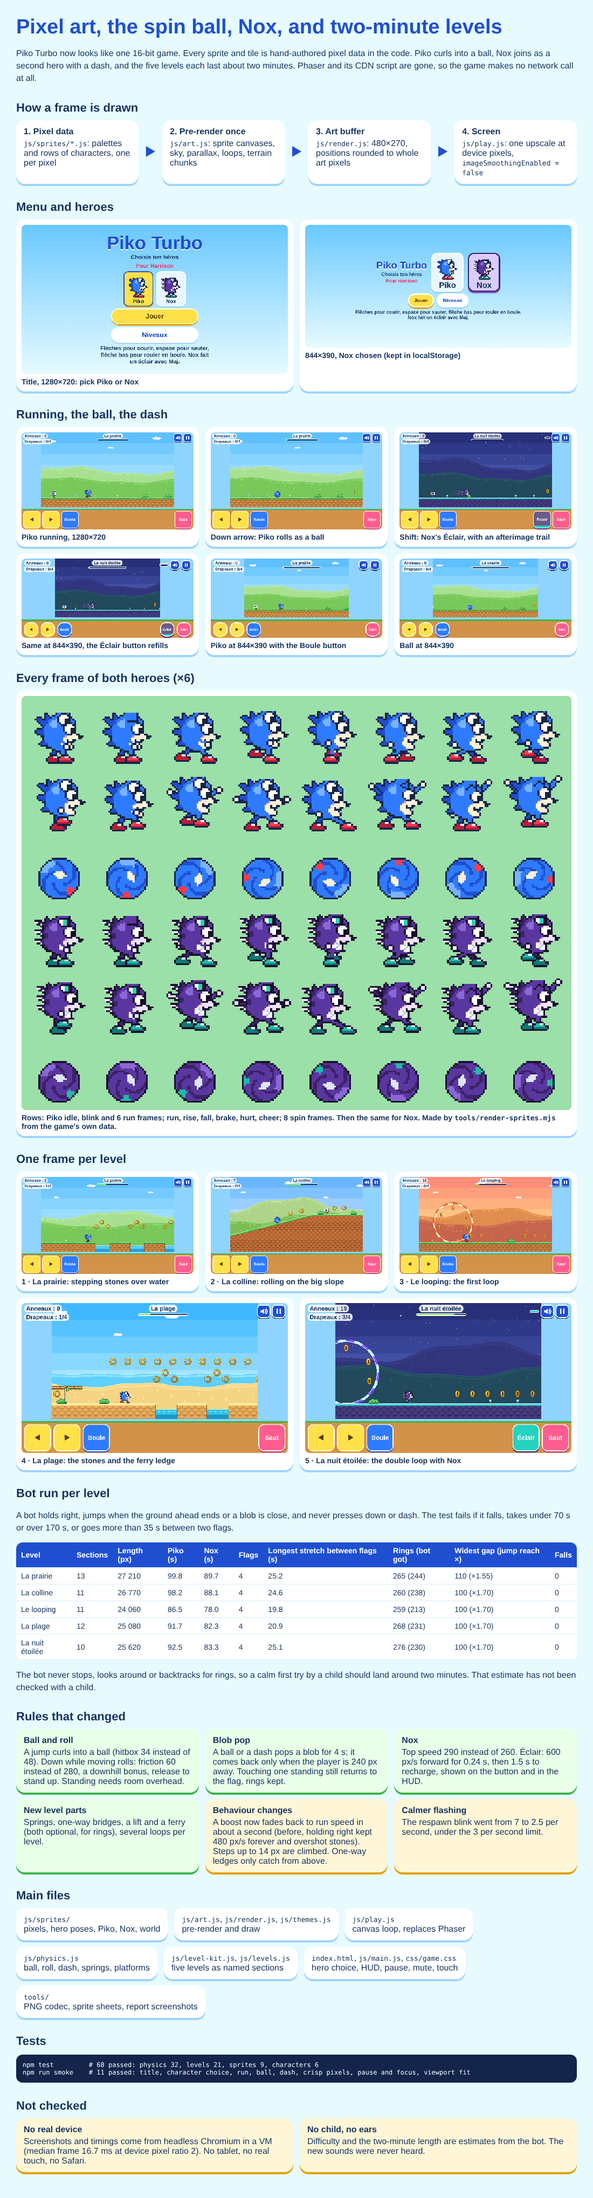
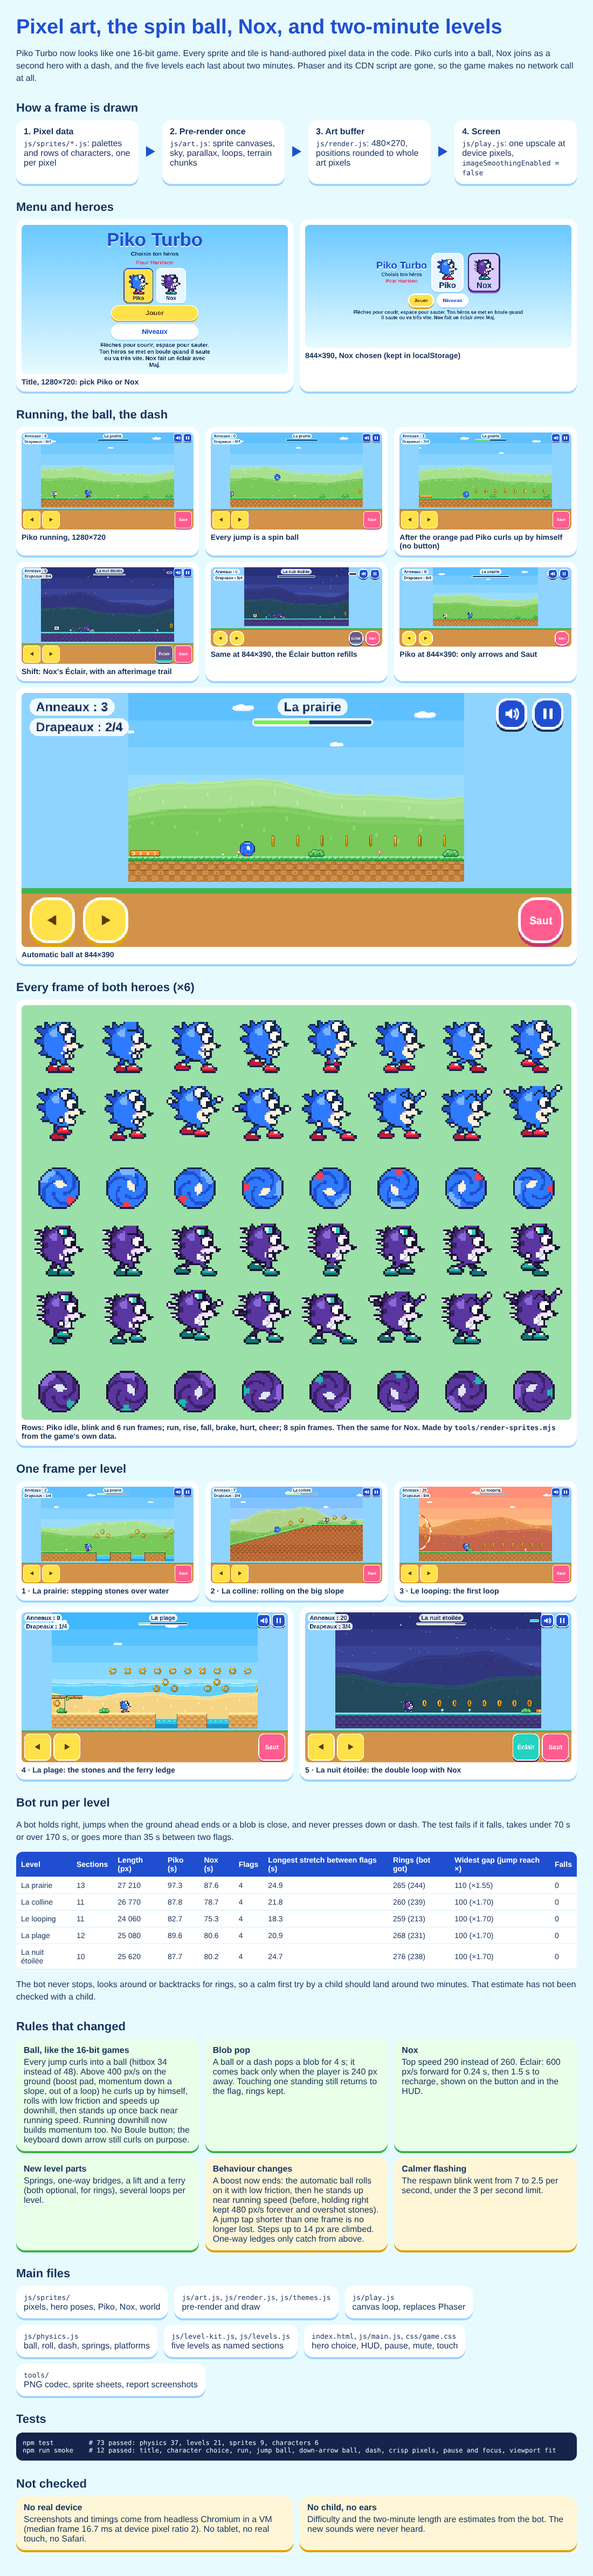
feat(ui): remove the Boule button and refresh the report
The ball now comes from jumps and speed, so the touch bar keeps only the
arrows, Saut and Nox's Éclair. The title help, README, smoke tests and
the visual report follow.

Claude-Session: https://claude.ai/code/session_01EXtVQZFuyFXmxBd66aRiqm

diff --git a/docs/pr-reports/feat-pixel-art-spin-nox-levels.html b/docs/pr-reports/feat-pixel-art-spin-nox-levels.html
@@ -61,11 +61,12 @@
     <h2>Running, the ball, the dash</h2>
     <div class="shots">
       <figure><img src="feat-pixel-art-spin-nox-levels/piko-run-wide.png" alt="Piko running in La prairie" /><figcaption>Piko running, 1280×720</figcaption></figure>
-      <figure><img src="feat-pixel-art-spin-nox-levels/piko-ball-wide.png" alt="Piko rolling as a ball" /><figcaption>Down arrow: Piko rolls as a ball</figcaption></figure>
+      <figure><img src="feat-pixel-art-spin-nox-levels/piko-jump-wide.png" alt="Piko jumping as a ball" /><figcaption>Every jump is a spin ball</figcaption></figure>
+      <figure><img src="feat-pixel-art-spin-nox-levels/piko-ball-wide.png" alt="Piko rolling after the boost pad" /><figcaption>After the orange pad Piko curls up by himself (no button)</figcaption></figure>
       <figure><img src="feat-pixel-art-spin-nox-levels/nox-dash-wide.png" alt="Nox dashing with an afterimage trail" /><figcaption>Shift: Nox's Éclair, with an afterimage trail</figcaption></figure>
       <figure><img src="feat-pixel-art-spin-nox-levels/nox-dash-phone.png" alt="Nox dashing at 844 by 390" /><figcaption>Same at 844×390, the Éclair button refills</figcaption></figure>
-      <figure><img src="feat-pixel-art-spin-nox-levels/piko-run-phone.png" alt="Piko running at 844 by 390" /><figcaption>Piko at 844×390 with the Boule button</figcaption></figure>
-      <figure><img src="feat-pixel-art-spin-nox-levels/piko-ball-phone.png" alt="Piko ball at 844 by 390" /><figcaption>Ball at 844×390</figcaption></figure>
+      <figure><img src="feat-pixel-art-spin-nox-levels/piko-run-phone.png" alt="Piko running at 844 by 390" /><figcaption>Piko at 844×390: only arrows and Saut</figcaption></figure>
+      <figure><img src="feat-pixel-art-spin-nox-levels/piko-ball-phone.png" alt="Piko ball at 844 by 390" /><figcaption>Automatic ball at 844×390</figcaption></figure>
     </div>
 
     <h2>Every frame of both heroes (×6)</h2>
@@ -87,22 +88,22 @@
     <table>
       <thead><tr><th>Level</th><th>Sections</th><th>Length (px)</th><th>Piko (s)</th><th>Nox (s)</th><th>Flags</th><th>Longest stretch between flags (s)</th><th>Rings (bot got)</th><th>Widest gap (jump reach ×)</th><th>Falls</th></tr></thead>
       <tbody>
-        <tr><td>La prairie</td><td>13</td><td>27 210</td><td>99.8</td><td>89.7</td><td>4</td><td>25.2</td><td>265 (244)</td><td>110 (×1.55)</td><td>0</td></tr>
-        <tr><td>La colline</td><td>11</td><td>26 770</td><td>98.2</td><td>88.1</td><td>4</td><td>24.6</td><td>260 (238)</td><td>100 (×1.70)</td><td>0</td></tr>
-        <tr><td>Le looping</td><td>11</td><td>24 060</td><td>86.5</td><td>78.0</td><td>4</td><td>19.8</td><td>259 (213)</td><td>100 (×1.70)</td><td>0</td></tr>
-        <tr><td>La plage</td><td>12</td><td>25 080</td><td>91.7</td><td>82.3</td><td>4</td><td>20.9</td><td>268 (231)</td><td>100 (×1.70)</td><td>0</td></tr>
-        <tr><td>La nuit étoilée</td><td>10</td><td>25 620</td><td>92.5</td><td>83.3</td><td>4</td><td>25.1</td><td>276 (230)</td><td>100 (×1.70)</td><td>0</td></tr>
+        <tr><td>La prairie</td><td>13</td><td>27 210</td><td>97.3</td><td>87.6</td><td>4</td><td>24.9</td><td>265 (244)</td><td>110 (×1.55)</td><td>0</td></tr>
+        <tr><td>La colline</td><td>11</td><td>26 770</td><td>87.8</td><td>78.7</td><td>4</td><td>21.8</td><td>260 (239)</td><td>100 (×1.70)</td><td>0</td></tr>
+        <tr><td>Le looping</td><td>11</td><td>24 060</td><td>82.7</td><td>75.3</td><td>4</td><td>18.3</td><td>259 (213)</td><td>100 (×1.70)</td><td>0</td></tr>
+        <tr><td>La plage</td><td>12</td><td>25 080</td><td>89.6</td><td>80.6</td><td>4</td><td>20.9</td><td>268 (231)</td><td>100 (×1.70)</td><td>0</td></tr>
+        <tr><td>La nuit étoilée</td><td>10</td><td>25 620</td><td>87.7</td><td>80.2</td><td>4</td><td>24.7</td><td>276 (238)</td><td>100 (×1.70)</td><td>0</td></tr>
       </tbody>
     </table>
     <p>The bot never stops, looks around or backtracks for rings, so a calm first try by a child should land around two minutes. That estimate has not been checked with a child.</p>
 
     <h2>Rules that changed</h2>
     <div class="cols">
-      <div class="card ok"><b>Ball and roll</b>A jump curls into a ball (hitbox 34 instead of 48). Down while moving rolls: friction 60 instead of 280, a downhill bonus, release to stand up. Standing needs room overhead.</div>
+      <div class="card ok"><b>Ball, like the 16-bit games</b>Every jump curls into a ball (hitbox 34 instead of 48). Above 400 px/s on the ground (boost pad, momentum down a slope, out of a loop) he curls up by himself, rolls with low friction and speeds up downhill, then stands up once back near running speed. Running downhill now builds momentum too. No Boule button; the keyboard down arrow still curls on purpose.</div>
       <div class="card ok"><b>Blob pop</b>A ball or a dash pops a blob for 4 s; it comes back only when the player is 240 px away. Touching one standing still returns to the flag, rings kept.</div>
       <div class="card ok"><b>Nox</b>Top speed 290 instead of 260. Éclair: 600 px/s forward for 0.24 s, then 1.5 s to recharge, shown on the button and in the HUD.</div>
       <div class="card ok"><b>New level parts</b>Springs, one-way bridges, a lift and a ferry (both optional, for rings), several loops per level.</div>
-      <div class="card risk"><b>Behaviour changes</b>A boost now fades back to run speed in about a second (before, holding right kept 480 px/s forever and overshot stones). Steps up to 14 px are climbed. One-way ledges only catch from above.</div>
+      <div class="card risk"><b>Behaviour changes</b>A boost now ends: the automatic ball rolls on it with low friction, then he stands up near running speed (before, holding right kept 480 px/s forever and overshot stones). A jump tap shorter than one frame is no longer lost. Steps up to 14 px are climbed. One-way ledges only catch from above.</div>
       <div class="card risk"><b>Calmer flashing</b>The respawn blink went from 7 to 2.5 per second, under the 3 per second limit.</div>
     </div>
 
@@ -118,8 +119,8 @@
     </div>
 
     <h2>Tests</h2>
-    <pre>npm test         # 68 passed: physics 32, levels 21, sprites 9, characters 6
-npm run smoke    # 11 passed: title, character choice, run, ball, dash, crisp pixels, pause and focus, viewport fit</pre>
+    <pre>npm test         # 73 passed: physics 37, levels 21, sprites 9, characters 6
+npm run smoke    # 12 passed: title, character choice, run, jump ball, down-arrow ball, dash, crisp pixels, pause and focus, viewport fit</pre>
 
     <h2>Not checked</h2>
     <div class="cols">

diff --git a/index.html b/index.html
@@ -34,7 +34,7 @@
             <button type="button" id="play" class="big">Jouer</button>
             <button type="button" id="levels" class="big alt">Niveaux</button>
           </div>
-          <p class="help">Flèches pour courir, espace pour sauter, flèche bas pour rouler en boule. Nox fait un éclair avec Maj.</p>
+          <p class="help">Flèches pour courir, espace pour sauter. Ton héros se met en boule quand il saute ou va très vite. Nox fait un éclair avec Maj.</p>
         </div>
       </section>
 
@@ -72,7 +72,6 @@
           <div class="pad-left">
             <button type="button" data-hold="left" aria-label="Gauche">◀</button>
             <button type="button" data-hold="right" aria-label="Droite">▶</button>
-            <button type="button" class="ball" data-hold="down" aria-label="Boule">Boule</button>
           </div>
           <div class="pad-right">
             <button type="button" class="dash" data-hold="dash" aria-label="Éclair" hidden>Éclair</button>

diff --git a/css/game.css b/css/game.css
@@ -319,12 +319,6 @@ h2 { font-size: clamp(2rem, 5vw, 3.2rem); }
   box-shadow: 0 6px 0 #c73668;
 }
 
-#touch .ball {
-  background: #2f7bff;
-  color: #fff;
-  box-shadow: 0 6px 0 #1f4fd0;
-}
-
 #touch .dash {
   --charge: 1;
   color: #fff;

diff --git a/README.md b/README.md
@@ -7,12 +7,13 @@ Petit jeu de plateforme dans le navigateur, pour Harrison. Piko est un hérisson
 Sur l'écran titre, choisis Piko ou Nox (le choix est gardé pour la prochaine fois).
 
 - Flèches gauche et droite : courir.
-- Espace ou flèche haut : sauter. En sautant, le héros se roule en boule.
-- Flèche bas en courant : rouler en boule. La boule garde sa vitesse et accélère dans les descentes. Lâcher la flèche le remet debout.
+- Espace ou flèche haut : sauter. Chaque saut roule le héros en boule.
+- Quand il va très vite (tapis orange, élan dans une descente, sortie de looping), il se met en boule tout seul. La boule garde sa vitesse et accélère dans les descentes, puis il se relève quand il ralentit.
+- Flèche bas en courant (clavier seulement) : se mettre en boule exprès.
 - Maj (Nox seulement) : l'éclair, un petit élan vers l'avant. Il se recharge en une seconde et demie.
 - Échap ou P : pause. M : couper le son.
 
-Sur une tablette, en paysage, les gros boutons Gauche, Droite, Boule, Éclair et Saut font la même chose. Pause et son sont en haut à droite.
+Sur une tablette, en paysage, les gros boutons Gauche, Droite, Éclair et Saut font la même chose. Pause et son sont en haut à droite.
 
 Une boule ou un éclair fait éclater les boules orange (elles reviennent un peu plus tard). Tomber dans l'eau ou toucher une boule orange debout ramène au dernier drapeau, avec tous les anneaux. Il n'y a pas de défaite.
 
